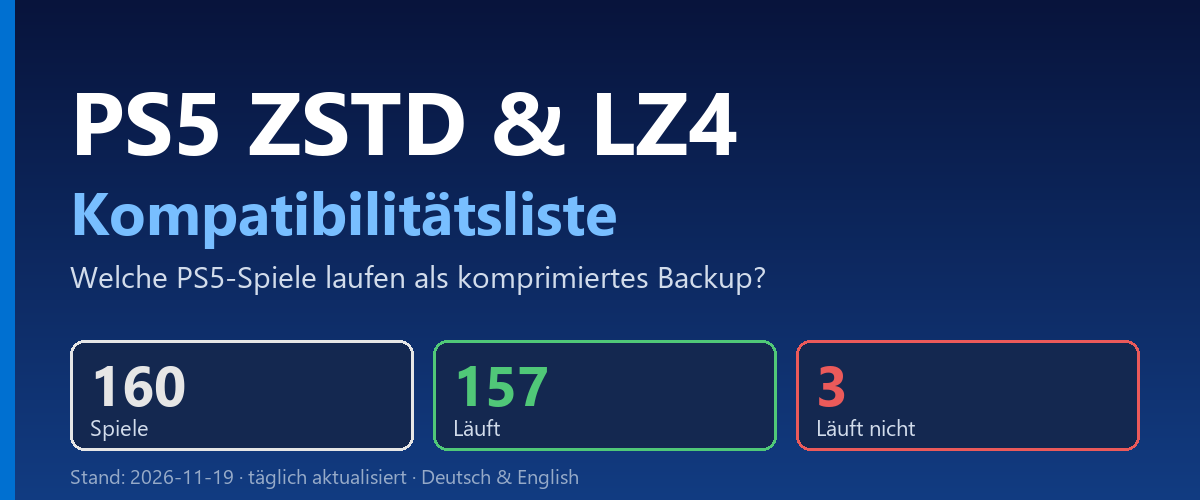
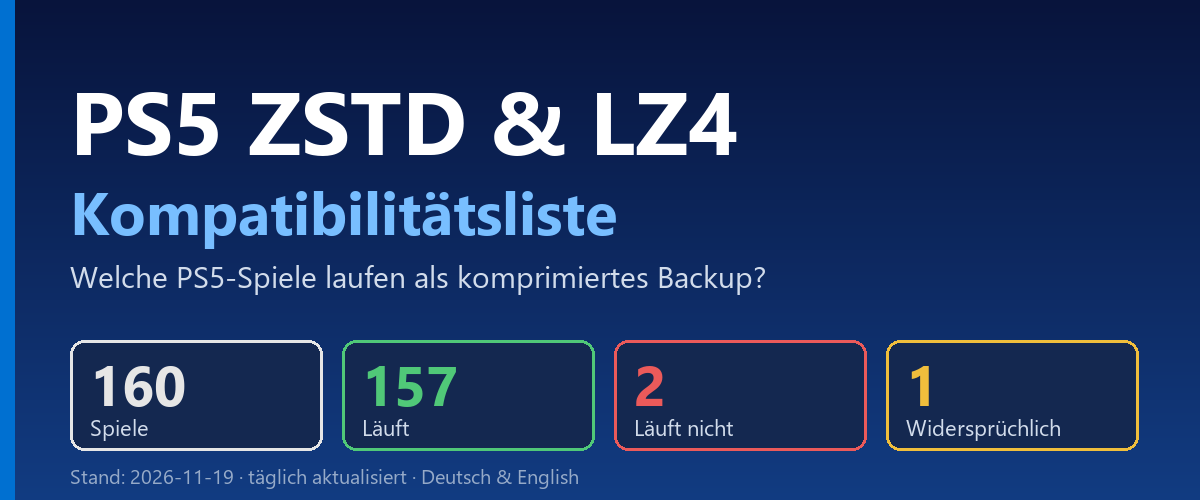
DIRT 5: läuft laut Pepe0815 (PPSA01552, ng 0.4.1, FW 12.00)

Changed region(s): [[0.4933, 0.66, 0.9558, 0.9], [0.2467, 0.66, 0.4625, 0.9]]

diff --git a/build.py b/build.py
@@ -33,7 +33,7 @@ UI = {
 }
 STATUS_ORDER = ["ok", "fail", "mixed", "unknown"]
 # PS5-Firmware je Tester (laut Angabe des Betreibers); gilt fuer alle manuell erfassten Berichte des Testers
-TESTER_FW = {"muxi": "4.03", "carljhonsen317": "11.00"}
+TESTER_FW = {"muxi": "4.03", "carljhonsen317": "11.00", "Pepe0815": "12.00"}
 TITLE_OVERRIDES = {"unidentified-p-030": "Resonance: A Plague Tale Legacy"}
 CJK = re.compile(r"[　-鿿＀-￯]")
 

diff --git a/CHANGELOG.md b/CHANGELOG.md
@@ -6,6 +6,14 @@ Neue und geänderte Einträge pro Aktualisierung (neueste zuerst).
 
 **Geändert**
 
+| Spiel | Änderung |
+|---|---|
+| DIRT 5 | Status: Läuft nicht → Widersprüchlich; Format: – → ZSTD; Testberichte: 1 → 2 (neu von Pepe0815): Version 06.004.00 (Pepe0815, PPSA01552); läuft mit ampr-emu-ng 0.4.1 (Pepe0815); exFAT-Image |
+
+## 2026-11-19
+
+**Geändert**
+
 Neue Spalte „FW“ mit der PS5-Firmware, mit der getestet wurde: muxi 4.03, carljhonsen317 11.00 (Angabe der Tester). Ein Stern (*) heißt: nur für einen Teil der Berichte des Spiels bekannt; ein „–“ heißt unbekannt. Die Quelldatenbank nennt die Firmware nur selten.
 
 ## 2026-11-17

diff --git a/CHANGELOG.en.md b/CHANGELOG.en.md
@@ -6,6 +6,14 @@ New and changed entries per update (newest first).
 
 **Changed**
 
+| Game | Change |
+|---|---|
+| DIRT 5 | Status: Does not run → Conflicting; Format: – → ZSTD; Test reports: 1 → 2 (new from Pepe0815): Version 06.004.00 (Pepe0815, PPSA01552); works with ampr-emu-ng 0.4.1 (Pepe0815); exFAT image |
+
+## 2026-11-19
+
+**Changed**
+
 New column "FW" showing the PS5 firmware used for testing: muxi 4.03, carljhonsen317 11.00 (as stated by the testers). An asterisk (*) means known for only some of the game's reports; a "–" means unknown. The source database rarely lists the firmware.
 
 ## 2026-11-17

diff --git a/README.md b/README.md
@@ -22,8 +22,8 @@ Was neu ist, steht im [CHANGELOG](CHANGELOG.md). In der PDF sind neue und geänd
 | Status | Anzahl |
 |---|---|
 | Läuft | 157 |
-| Läuft nicht | 3 |
-| Widersprüchlich | 0 |
+| Läuft nicht | 2 |
+| Widersprüchlich | 1 |
 | Unbestätigt | 0 |
 
 - **Läuft**: alle Testberichte erfolgreich

diff --git a/README.en.md b/README.en.md
@@ -22,8 +22,8 @@ See the [CHANGELOG](CHANGELOG.en.md) for what is new. In the PDF, new and change
 | Status | Count |
 |---|---|
 | Works | 157 |
-| Does not run | 3 |
-| Conflicting | 0 |
+| Does not run | 2 |
+| Conflicting | 1 |
 | Unconfirmed | 0 |
 
 - **Works**: all test reports successful
